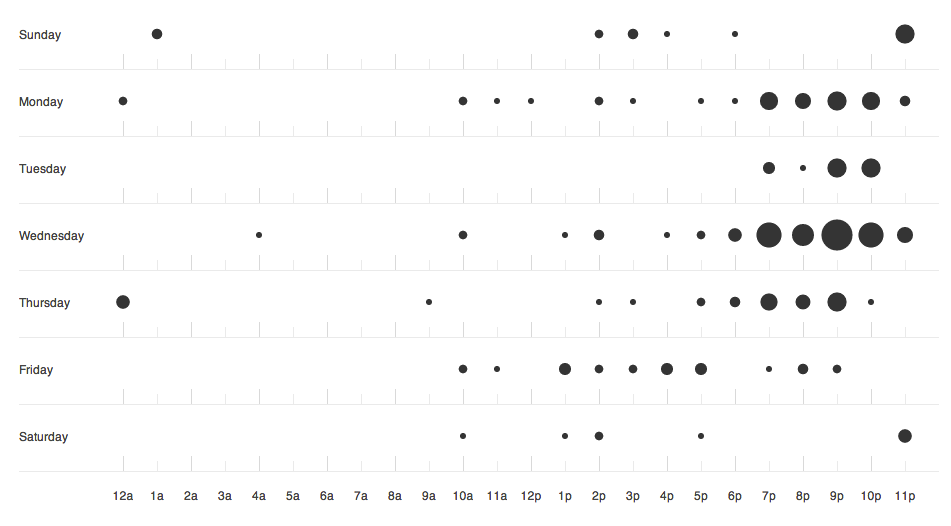
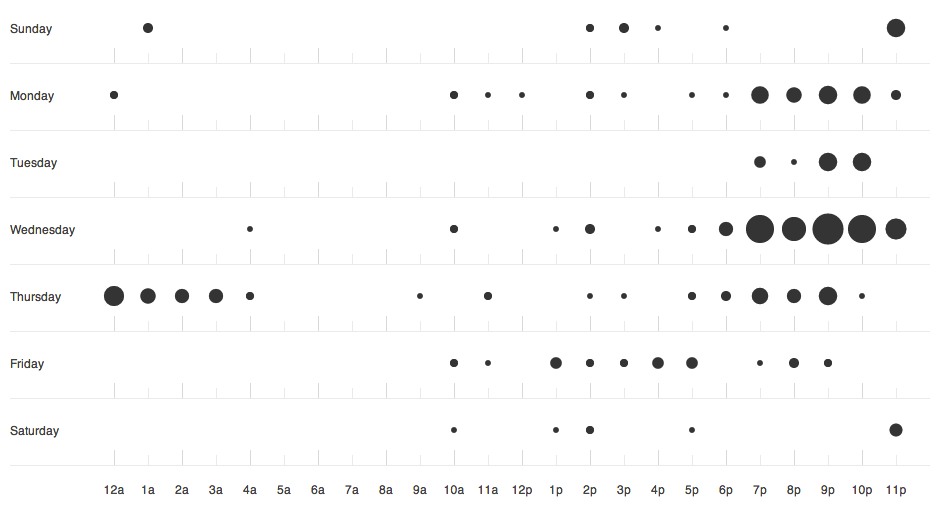
ppt update

diff --git a/docs/reveal.js/index.html b/docs/reveal.js/index.html
@@ -43,19 +43,49 @@
           </p>
         </section>
 
+        <section>
+          <p>github.com/wondger/eureka/issues/new</p>
+          <img src="./img/google.jpg"/>
+        </section>
+        
 
         <section>
-          
           <section>
-            <h2>Eureka前传<h2>
+            <h1>Eureka</h1>
+            <p>是什么</p>
           </section>
           <section>
-            <h3>Eureka 小组</h3>
-            <img src="./img/eureka.JPG" alt="eureka team"/>
+            <h3><span class="green">Eureka</span> 是一款真实世界里的app</h3>
           </section>
           <section>
-            <p><b class="green">11267</b> lines of code</p>
-            <p><b class="green">412</b> commits</p>
+            <h3><span class="green">Eureka</span> 是一款为在座各位服务的app</h3>
+          </section>
+          <section>
+            <h3><span class="green">Eureka</span> 是一款为分享会提供反馈的app</h3>
+          </section>
+          <section>
+            <img src="./img/diaochapai.png"/>
+          </section>
+          <section>
+            <img src="./img/google_io.png"/>
+          </section>
+        </section>
+
+        <section>
+          <h3>Demo</h3>
+          <img src="./img/static_demo.png"/>
+        </section>
+
+        <section>
+          <h3>Real Demo</h3>
+        </section>
+
+        <section>
+          <section>
+            <p><b class="green">73</b> 天</p>
+            <p><b class="green">11977</b> lines of code</p>
+            <p><b class="green">497</b> commits</p>
+            <p><b class="green">10</b> wednesday</p>
             <img src="./img/amazing_journey.png"/>
           </section>
           <section>
@@ -63,31 +93,24 @@
             <img src="./img/wednesday.png" />
           </section>
           <section>
-            <h3>Eureka 小组</h3>
-            <img src="./img/team.png" />
+            <p>下班后, coding together</p>
+            <img src="./img/commit_time.png" />
           </section>
-        </section>
-        <section>
-          <img src="./img/eureka_md.png" />
-        </section>
-
-        <section>
-          <h3><b class="green">Eureka</b>, a tiny, but real application</h3>
-        </section>
-
-        <section>
-          <h3>产品背景</h3>
-          <p>签到信息和反馈信息对于分享会有重要的价值</p>
-          <p>传统的签到和反馈方式需要大量的人工参与来完成数据的融合汇总</p>
-          
+          <section>
+            <h3>我们的团伙</h3>
+            <img src="./img/eureka.JPG" alt="eureka team"/>
+          </section>
+          <section>
+            <p>每个人都是dev</p>
+            <img src="./img/one_more_thing.png" alt="eureka team"/>
+            <small class="gray">注: 筱谷因为账号冲突的原因, 代码贡献统计有误, 远不止这些</small>
+          </section>
         </section>
         <!-- End 7n -->
 
         <!-- Start 棪木 筱谷 剑平 水儿 幽零 -->
 
-        <section>
-          <h1>How</h1>
-        </section>
+        
         
         <!-- 筱谷 Start -->
         <section>
@@ -138,9 +161,15 @@
         <!-- End 棪木 筱谷 剑平 水儿 幽零 -->
 
         <section>
-          <h1>THE END</h1>
-          <h3>Eureka 2.0 - to be continued</h3>
+          <h3>再次回到<span>Eureka</span></h3>
+          <img src="./img/eureka_ali.gif" />
         </section>
+
+        <section>
+          <h2><span class="green">Eureka 2.0</span> - to be continued</h2>
+        </section>
+
+        
 
       </div>
 

diff --git a/docs/reveal.js/css/eureka.css b/docs/reveal.js/css/eureka.css
@@ -17,4 +17,5 @@
 .reveal h5,
 .reveal h6 {
   font-family: "League Gothic", Impact, sans-serif, "微软雅黑";
+  text-transform: none;
 }
